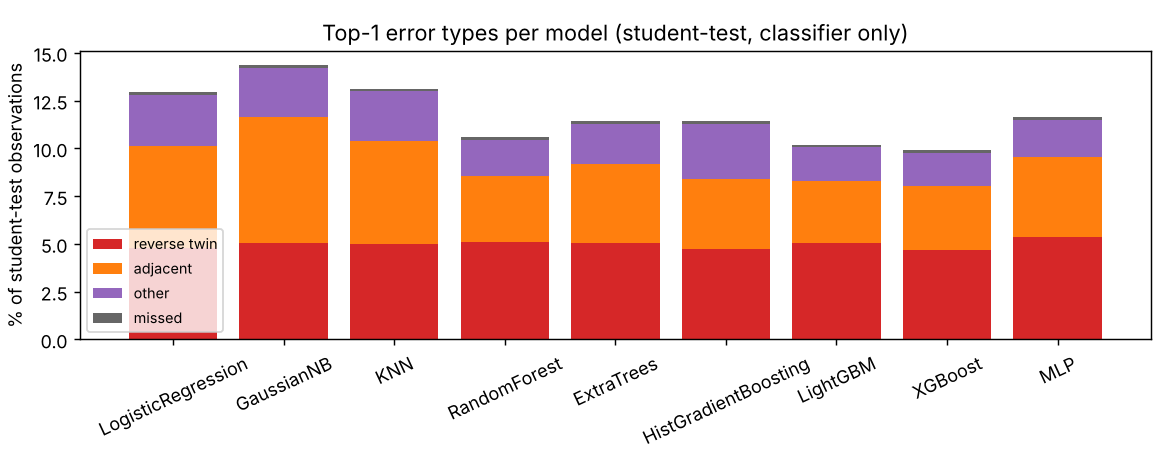
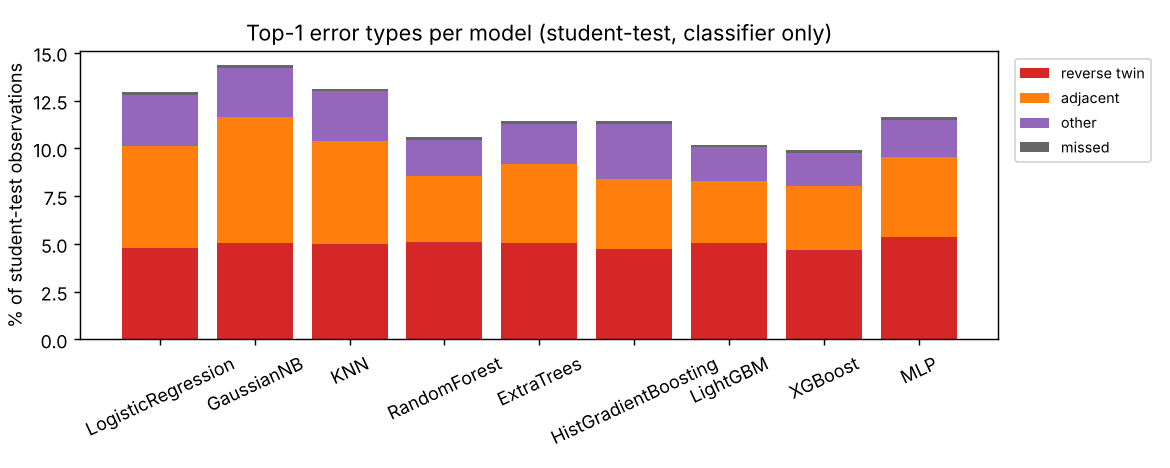
Paired per-fold/per-trip comparison of selected model (bootstrap CI), report text; projection-error claim corrected; figure numbering fix
Claude-Session: https://claude.ai/code/session_016TiN5TSfcRgQT7aM918oLm

diff --git a/report/build_report.py b/report/build_report.py
@@ -18,6 +18,8 @@ import numpy as np
 import pandas as pd
 
 from rl import KeepTogether, P, PageBreak, Spacer, TEXT_W, bullets, build, cm, img, table
+import sections  # noqa: E402
+from sections import dv  # noqa: E402
 
 O = lambda *p: os.path.join(ROOT, "outputs", *p)
 A = lambda *p: os.path.join(ROOT, "artifacts", *p)
@@ -45,6 +47,13 @@ fsum = pd.read_csv(O("features", "partition_feature_summary.csv"))
 fcfg = rj(A("feature_config.json"))
 tr_inv, st_inv = inv[inv.partition == "train"], inv[inv.partition == "student_test"]
 excl = tr_inv[tr_inv.trip_id.isin(["00000033", "00000054"])].set_index("trip_id")
+# worst-case east-west scale error of the local equirectangular projection within each trip's bounding box
+_lat0 = (inv.lat_min + inv.lat_max) / 2
+_err = np.maximum(abs(np.cos(np.radians(inv.lat_min)) / np.cos(np.radians(_lat0)) - 1),
+                  abs(np.cos(np.radians(inv.lat_max)) / np.cos(np.radians(_lat0)) - 1))
+proj_err_max = dv("projection_scale_error_max", float(_err.max()))
+proj_err_med = dv("projection_scale_error_median", float(_err.median()))
+bbox_max = float(inv.bbox_diag_km.max())
 
 story = []
 
@@ -147,8 +156,11 @@ story += [P("2.2.3 Preprocessing", "h2"),
           *bullets([
               "<b>Coordinate system.</b> Longitude/latitude are angular, so Euclidean distance in degrees is meaningless. "
               "Each trip is projected to a local equirectangular tangent plane in metres centred on the trip's mean "
-              "position (distortion &lt; 0.1% over the &lt; 50 km extent of a trip, far below GPS noise); haversine is used "
-              "for whole-trip summaries.",
+              f"position. Trips extend up to {bbox_max:.1f} km (bounding-box diagonal); the worst-case east-west scale "
+              f"error at the edge of a trip is {pct(proj_err_max, 2)} (median over trips {pct(proj_err_med, 3)}). The "
+              f"distances that drive the model are local (candidates within {fcfg['radius_m']:.0f} m), where this is at most "
+              f"{dv('projection_abs_error_at_radius_m', proj_err_max * fcfg['radius_m']):.2f} m - well below the GPS noise. "
+              "Haversine is used for whole-trip summaries.",
               "<b>Per-observation labels.</b> The route lists arcs in order but not which GPS fix belongs to which arc. "
               "We derive a reference arc per observation with a monotone dynamic programme (src/pathsnap/labels.py) that keeps "
               "the route order and minimises the summed point-to-segment distance. These derived labels inherit any error of "
@@ -159,7 +171,8 @@ story += [P("2.2.3 Preprocessing", "h2"),
               f"{tr_inv[~tr_inv.trip_id.isin(excl.index)].gps_to_route_median_m.median():.1f} m median), and "
               f"{pct(fsum[fsum.excluded_from_training].miss_rate.iloc[0])} of their observations have no reference arc "
               f"within {fcfg['radius_m']:.0f} m - the GPS and the reference route do not describe the same drive "
-              "(Figure 7 shows trip 33). Training on them would teach the model that the right segment is ~130 m away.",
+              "(Figure 8 shows trip 33). Training on them would teach the model that the right segment is about "
+              f"{dv('excluded_trips_mean_median_offset_m', excl.gps_to_route_median_m.mean()):.0f} m away.",
               "<b>Gaps and jumps</b> are kept; features use clipped time deltas, and the HMM splits the chain at long gaps "
               "(section 5).",
               f"<b>Training subsample.</b> 1 Hz fixes are strongly autocorrelated, so models are fitted on every 3rd observation "
@@ -194,7 +207,7 @@ maps_idx = pd.read_csv(O("maps", "maps_index.csv"), dtype={"trip_id": str})
 eda_maps = maps_idx[maps_idx.partition == "train"]
 for _, r in eda_maps.iterrows():
     story.append(img(O("maps", r.png), width=15 * cm,
-                     caption=f"Figure {7 if r.trip_id == '00000033' else 8} - Folium map, train trip {r.trip_id} ({r.purpose}): "
+                     caption=f"Figure {8 if r.trip_id == '00000033' else 7} - Folium map, train trip {r.trip_id} ({r.purpose}): "
                              f"GPS observations, nearby road network and reference route; interactive HTML: "
                              f"outputs/maps/{r.map}. Partition: train."))
 
@@ -241,8 +254,7 @@ story += [P("2.2.6 Features and why we chose them", "h2"),
             f"(78 trips), student_test {fsum[fsum.partition == 'student_test'].rows.iloc[0]:,} rows "
             f"(10 trips). Source: outputs/features/partition_feature_summary.csv.", "small")]
 
-# ---------------------------------------------------------------- later sections
-import sections  # noqa: E402  (sections 3-8, need results of steps 3-8)
+# ---------------------------------------------------------------- later sections (3-8)
 
 story += sections.build_all(O, A, rj)
 out = os.path.join(HERE, "PathSnap_Technical_Report.pdf")

diff --git a/report/sections.py b/report/sections.py
@@ -120,6 +120,27 @@ def sec3(O, A, rj):
         rows.append([n] + [f4(fold_top1.loc[n, k]) for k in range(5)])
     st += [table(rows, col_widths=[3.4 * cm] + [2 * cm] * 5),
            P("Table 6 - Held-out Top-1 per CV fold (train partition). Source: outputs/models/cv_folds_all.csv.", "cap")]
+    PC = pd.read_csv(O("models", "paired_comparison.csv")).set_index("other")
+    rows = [["XGBoost vs", "CV folds XGBoost better (of 5)", "CV mean diff [pp]", "student_test trips better / worse",
+             "student_test diff [pp] (95% CI over trips)"]]
+    for o, r in PC.iterrows():
+        rows.append([o, str(r.cv_folds_selected_better), f"{100 * r.cv_mean_diff:+.2f} pp",
+                     f"{r.st_trips_selected_better} / {r.st_trips_selected_worse}",
+                     f"{100 * r.st_weighted_diff:+.2f} pp ({100 * r.st_ci_low:+.2f} pp, {100 * r.st_ci_high:+.2f} pp)"])
+    clear = [o for o, r in PC.iterrows() if r.cv_folds_selected_better == 5 and r.st_ci_excludes_zero]
+    tied = [o for o in PC.index if o not in clear]
+    assert set(tied) == {"RandomForest", "LightGBM"}
+    st += [table(rows, col_widths=[3.4 * cm, 2.8 * cm, 2.4 * cm, 3.2 * cm, 5.6 * cm]),
+           P("Table 6b - Paired comparison of the selected model with each other model: per-fold CV differences (train) "
+             "and per-trip student_test differences with a 95% bootstrap confidence interval over the 10 trips. Source: "
+             "scripts/03d_paired_comparison.py -> outputs/models/paired_comparison.csv.", "cap"),
+           P(f"XGBoost is better than {', '.join(clear)} in every CV fold and on student_test with a confidence interval that "
+             f"excludes zero - the gradient-boosted/bagged tree ensembles genuinely beat the other families. Against "
+             f"{' and '.join(tied)} the evidence is mixed: CV differences are within "
+             f"+-{100 * PC.loc[tied, ['cv_min_diff', 'cv_max_diff']].abs().max().max():.2f} pp and change sign between folds; on "
+             f"student_test XGBoost is ahead of RandomForest on {PC.loc['RandomForest', 'st_trips_selected_better']} of 10 "
+             f"trips but its lead over LightGBM is not significant. We therefore describe XGBoost as <i>tied</i> with these "
+             f"two on accuracy and chosen for calibration and speed, not as the most accurate model.")]
 
     xe = E.loc["XGBoost"]
     st += [P("<b>What limits Top-1?</b> We classified every student_test Top-1 error (Figure 11). For XGBoost, "
@@ -688,7 +709,7 @@ def sec8(O, A, rj):
     st += [P("Appendix - reproduction", "h1"),
            P("pip install -r requirements.txt; place data in data/raw/{train,student_test}; then run in order: "
              "scripts/01_eda.py, 02_build_dataset.py, 03_train_compare.py, 03b_plot_compare.py, 03c_error_analysis.py, "
-             "04_bayes_opt.py --trials 40, 05_hmm_eval.py, 05b_hmm_error_analysis.py, 07_maps.py, 08_screenshots.py, "
+             "03d_paired_comparison.py, 04_bayes_opt.py --trials 40, 05_hmm_eval.py, 05b_hmm_error_analysis.py, 07_maps.py, 08_screenshots.py, "
              "report/build_report.py, scripts/check_report_numbers.py. Logs of the runs used for this report are in "
              "outputs/logs/. Seeds: 42 (numpy, scikit-learn, LightGBM, XGBoost, Optuna).", "small")]
     return st

diff --git a/scripts/03d_paired_comparison.py b/scripts/03d_paired_comparison.py
@@ -1,0 +1,47 @@
+"""Step 3d - is the selected model really better than its closest rivals?
+
+Paired comparison of the selected model against every other model:
+  * CV (train): per-fold difference in held-out Top-1 (same folds for all models)
+  * student_test: per-trip difference in Top-1, number of trips won/lost, and an
+    observation-weighted mean difference with a 95% bootstrap CI over trips
+    (5000 resamples of the 10 trips, seed 42).
+Output: outputs/models/paired_comparison.csv
+"""
+import json
+import os
+import sys
+
+sys.path.insert(0, os.path.join(os.path.dirname(__file__), "..", "src"))
+
+import numpy as np
+import pandas as pd
+
+from pathsnap.experiment import ROOT, SEED
+
+M = os.path.join(ROOT, "outputs", "models")
+chosen = json.load(open(os.path.join(M, "model_selection.json")))["chosen"]
+F = pd.read_csv(os.path.join(M, "cv_folds_all.csv")).pivot(index="fold", columns="model", values="val_top1")
+per = {m: pd.read_csv(os.path.join(M, "per_model", f"{m}_student_test_per_trip.csv"), dtype={"trip_id": str}).set_index("trip_id")
+       for m in F.columns}
+rows = []
+for other in F.columns:
+    if other == chosen:
+        continue
+    fd = F[chosen] - F[other]
+    d = per[chosen].top1 - per[other].top1
+    w = per[chosen].n_obs
+    rng = np.random.RandomState(SEED)
+    bs = []
+    for _ in range(5000):
+        s = rng.choice(d.index, len(d))
+        bs.append(np.average(d.loc[s], weights=w.loc[s]))
+    lo, hi = np.percentile(bs, [2.5, 97.5])
+    rows.append({"selected": chosen, "other": other,
+                 "cv_folds_selected_better": int((fd > 0).sum()), "cv_mean_diff": float(fd.mean()),
+                 "cv_min_diff": float(fd.min()), "cv_max_diff": float(fd.max()),
+                 "st_trips_selected_better": int((d > 0).sum()), "st_trips_selected_worse": int((d < 0).sum()),
+                 "st_weighted_diff": float(np.average(d, weights=w)), "st_ci_low": float(lo), "st_ci_high": float(hi),
+                 "st_ci_excludes_zero": bool(lo > 0 or hi < 0)})
+R = pd.DataFrame(rows).sort_values("cv_mean_diff")
+R.to_csv(os.path.join(M, "paired_comparison.csv"), index=False)
+print(R.round(4).to_string(index=False))

diff --git a/src/pathsnap/geo.py b/src/pathsnap/geo.py
@@ -1,10 +1,10 @@
 """Geometry helpers.
 
-Coordinates are WGS84 lon/lat in degrees. Every trip covers a few km, so we
-project to a local equirectangular (tangent-plane) frame in metres centred on
-the trip. Over < 50 km the distortion of this projection is well under 0.1 %,
-far below GPS noise (~5-20 m), and it lets us use fast vectorised Euclidean
-maths. Great-circle (haversine) distance is used for whole-trip summaries.
+Coordinates are WGS84 lon/lat in degrees. Each trip is projected to a local
+equirectangular (tangent-plane) frame in metres centred on the trip. Trips span
+up to ~80 km; the east-west scale error at the edge of the largest trip is
+about 0.7 % (median trip ~0.05 %), i.e. < 0.6 m on the <= 75 m distances used for
+candidates - below GPS noise - and it allows fast vectorised Euclidean maths. Great-circle (haversine) distance is used for whole-trip summaries.
 """
 from __future__ import annotations
 

diff --git a/scripts/03c_error_analysis.py b/scripts/03c_error_analysis.py
@@ -73,7 +73,7 @@ for k, c in zip(["reverse_twin", "adjacent", "other", "missed"], ["tab:red", "ta
     v = E[f"{k}_share_of_obs"].to_numpy() * 100
     ax.bar(E.model, v, bottom=bottom, label=k.replace("_", " "), color=c)
     bottom += v
-ax.set_ylabel("% of student-test observations"); ax.legend(fontsize=8)
+ax.set_ylabel("% of student-test observations"); ax.legend(fontsize=8, loc="upper left", bbox_to_anchor=(1.01, 1))
 ax.set_title("Top-1 error types per model (student-test, classifier only)")
 ax.tick_params(axis="x", rotation=25)
 fig.tight_layout(); fig.savefig(os.path.join(ROOT, "outputs", "figures", "error_types.png"), dpi=130); plt.close(fig)

diff --git a/README.md b/README.md
@@ -54,6 +54,7 @@ Times are from a 4-core laptop-class CPU.
 | 3 | `python scripts/03_train_compare.py` | 9 models, 5-fold GroupKFold by trip on train, refit, evaluate on student_test | train (CV), student_test (comparison) | ~1.5 h (RF, KNN, MLP dominate) |
 | 3b | `python scripts/03b_plot_compare.py` | comparison table, model selection, all comparison plots | from step 3 outputs | seconds |
 | 3c | `python scripts/03c_error_analysis.py` | Top-1 error types per model (reverse direction / adjacent / other / missed) | student_test | ~1 min |
+| 3d | `python scripts/03d_paired_comparison.py` | paired per-fold / per-trip comparison of the selected model vs every other (bootstrap CI) | train (CV), student_test | seconds |
 | 4 | `python scripts/04_bayes_opt.py --trials 40` | Optuna TPE on the selected model (objective CV Top-1, train only), tuned vs untuned, `artifacts/model.joblib` | train (search), student_test (after search) | ~30–60 min |
 | 5 | `python scripts/05_hmm_eval.py` | HMM decoder grid (selection on train OOF), classifier-only vs HMM, `artifacts/hmm_config.json` | train, student_test | ~20 min |
 | 5b | `python scripts/05b_hmm_error_analysis.py` | what the HMM fixed and broke (error type, stationary, near breaks) | train, student_test | ~2 min |
